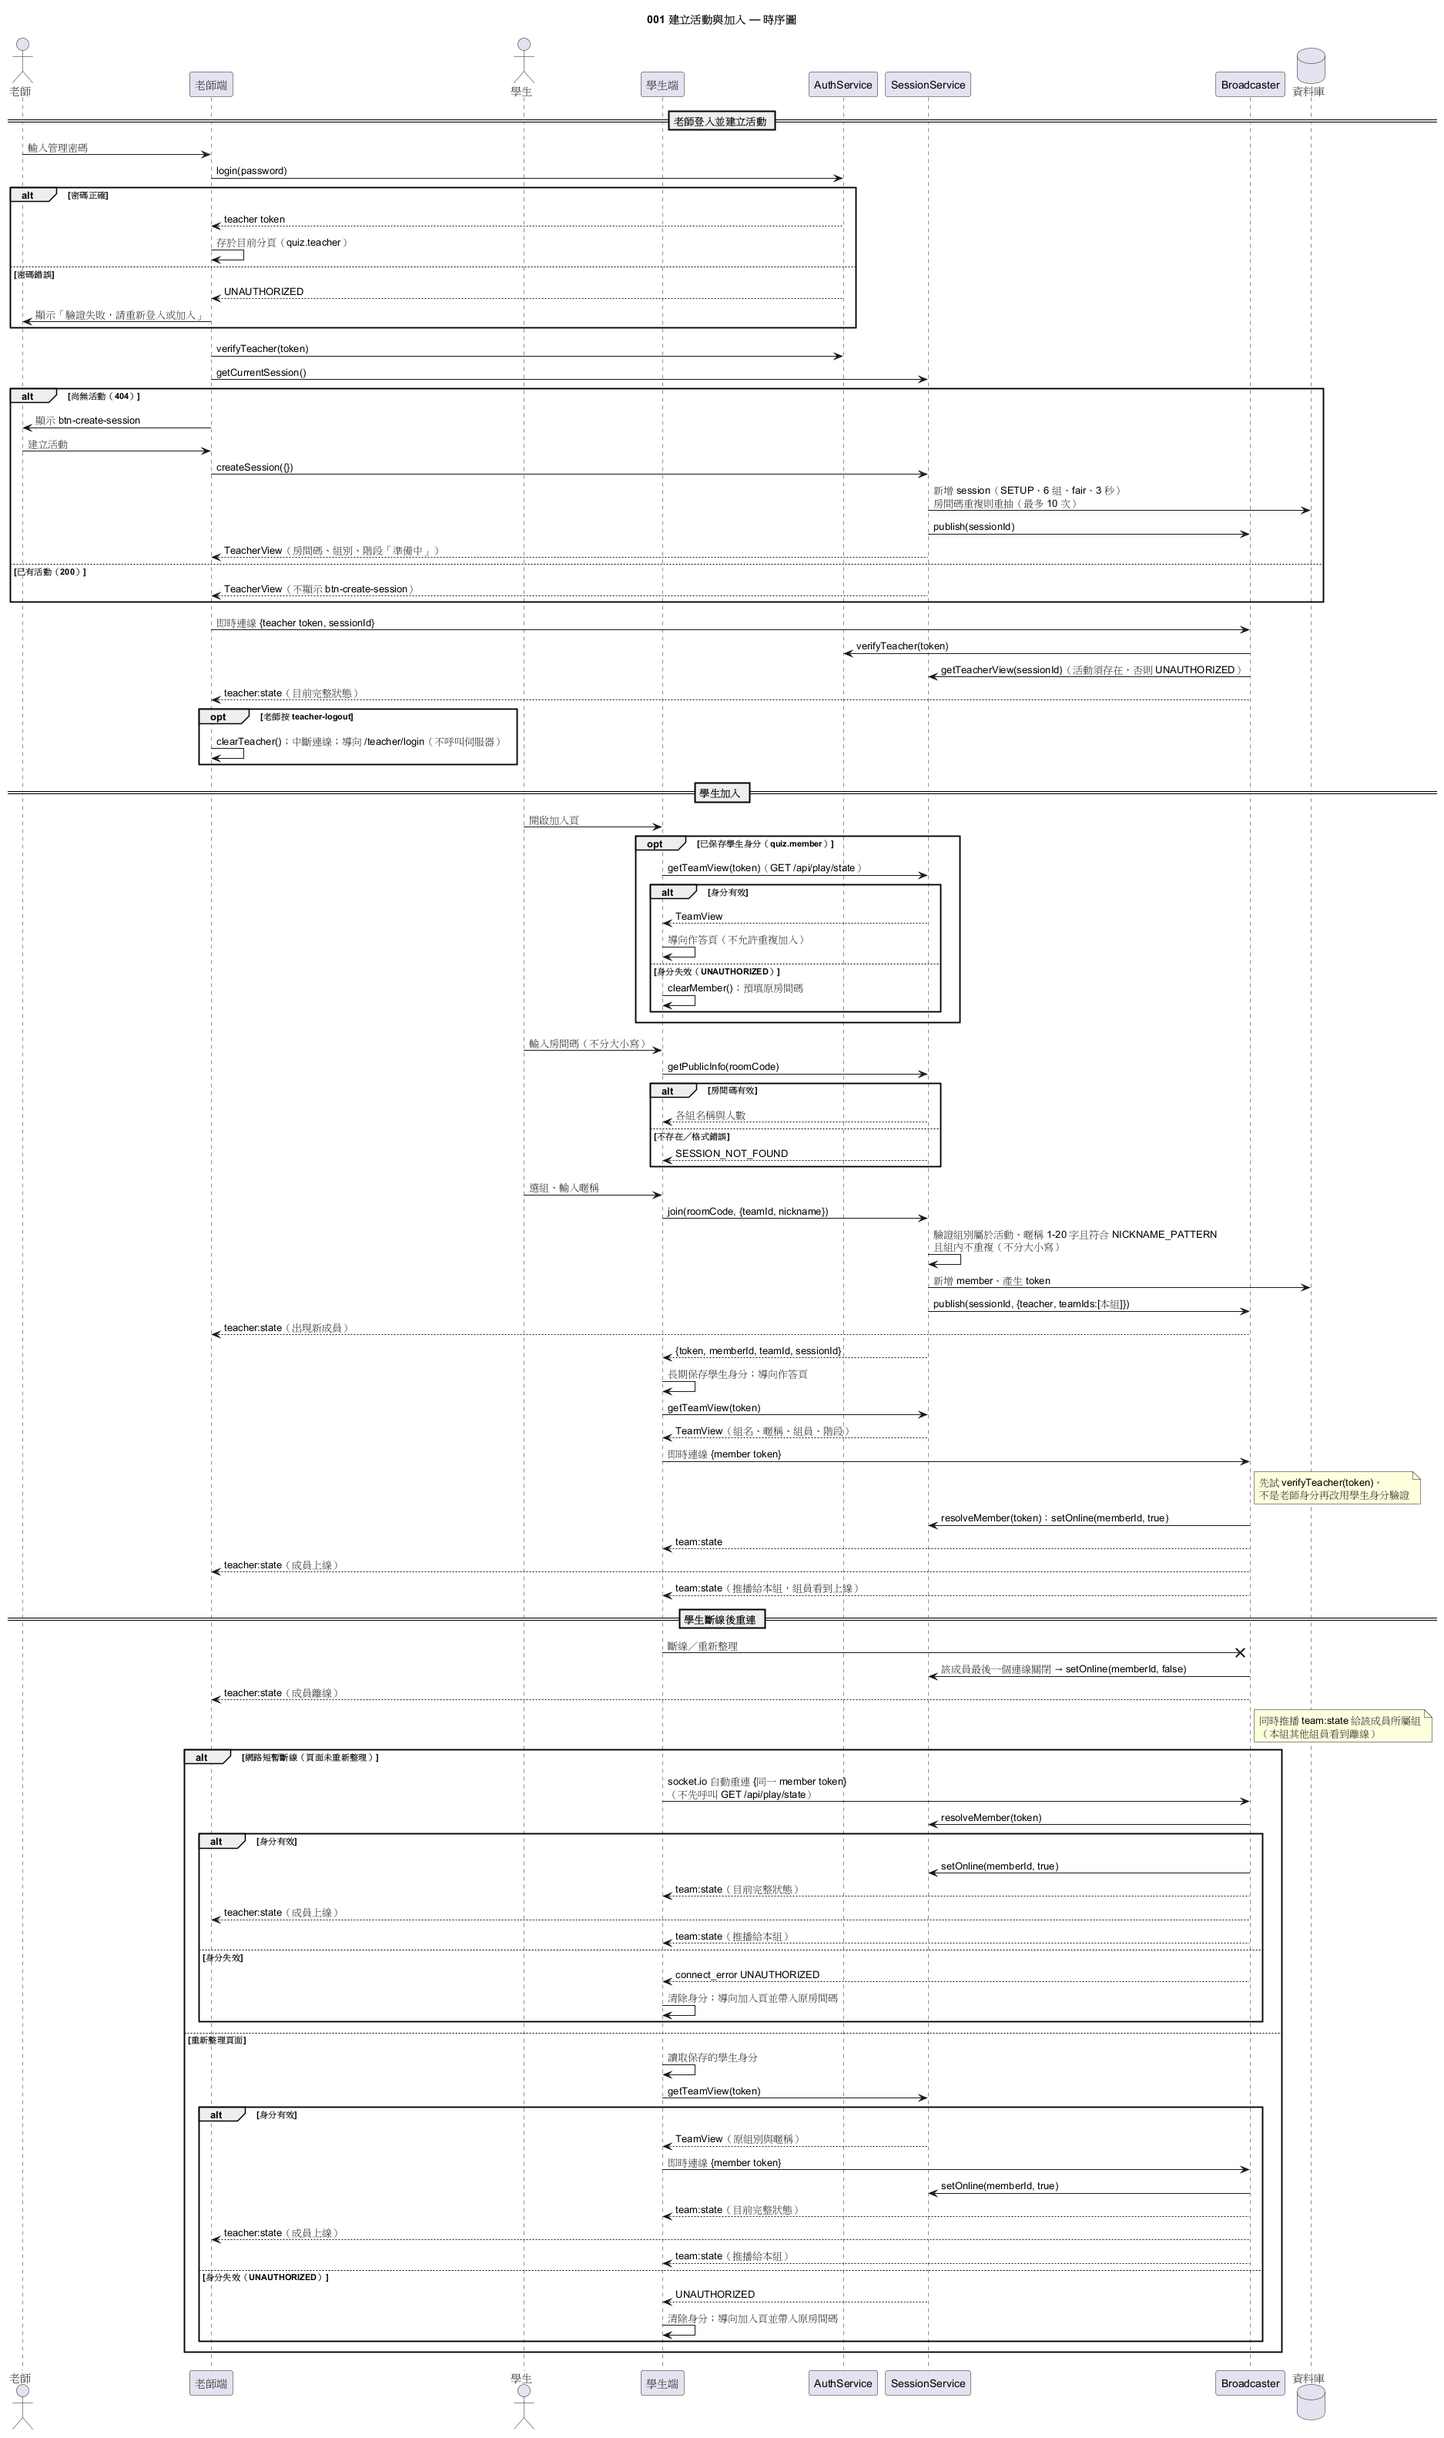
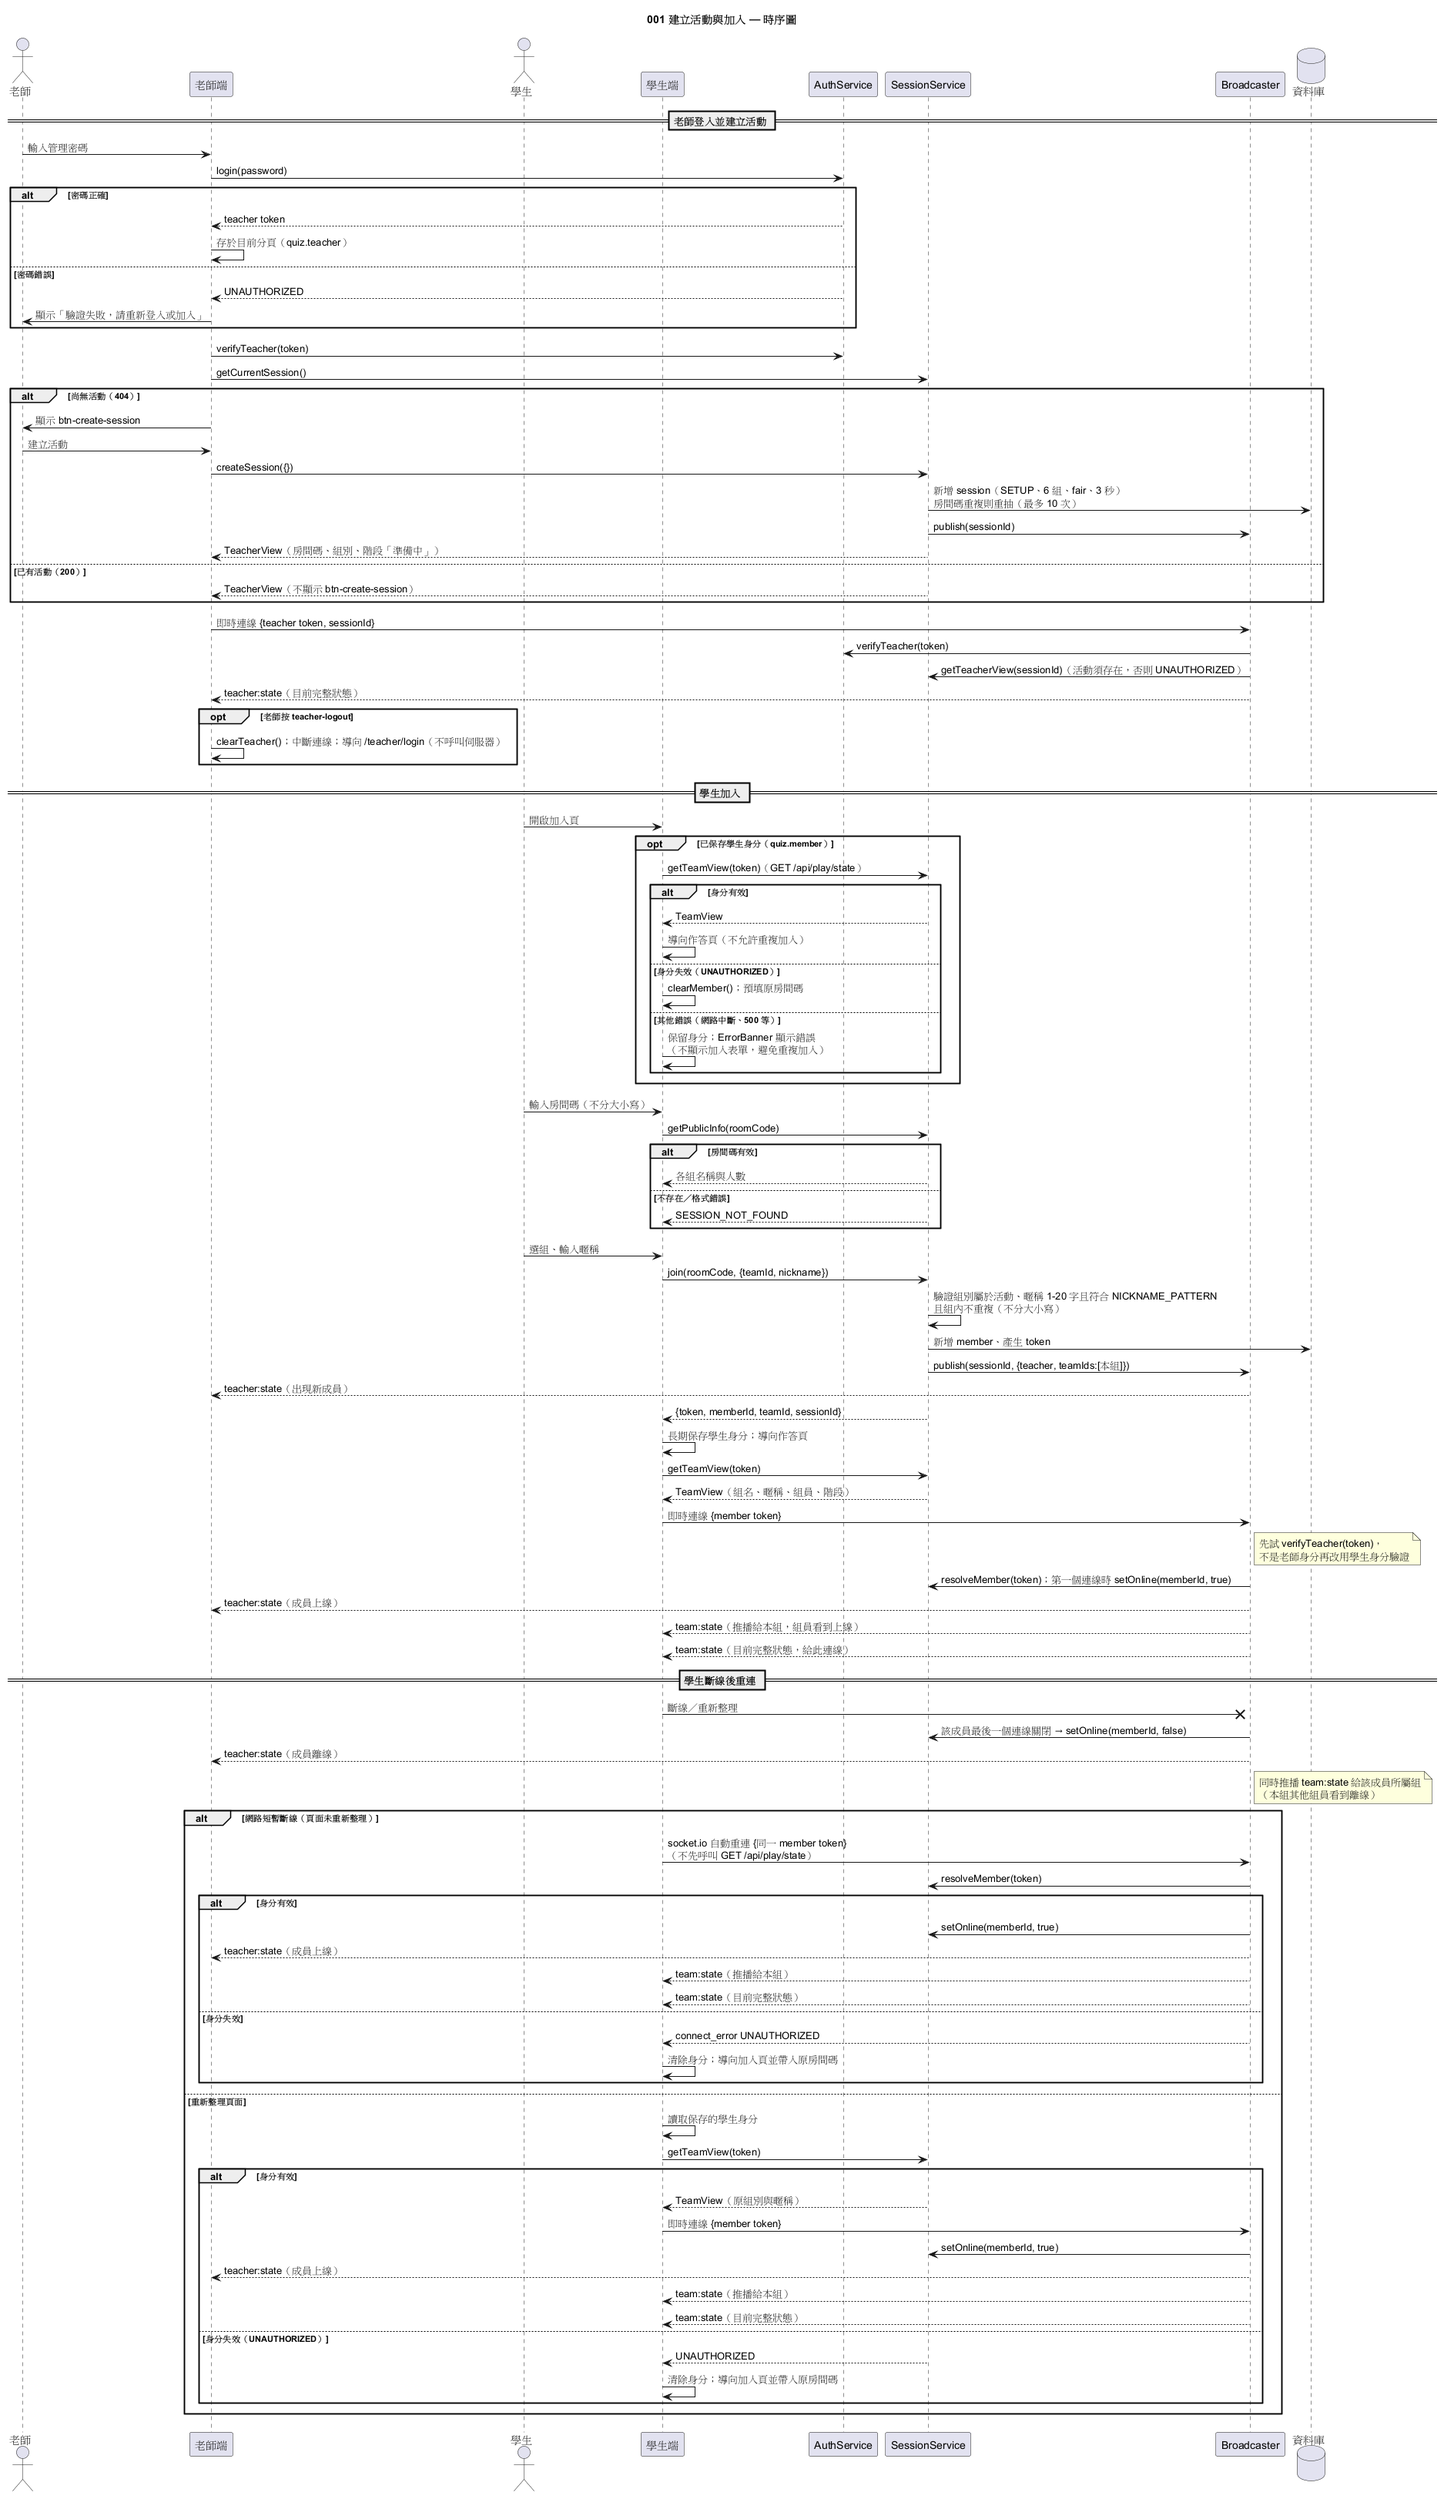
test(001): phase 4 QA - secrets check, README, build/start and manual acceptance (T087-T090, T093)

diff --git a/docs/manual-test.md b/docs/manual-test.md
@@ -43,3 +43,38 @@
 **整合測試與 TECH_SPEC §14.1 001 列核對**：IT-AUTH-01～03、IT-ONLINE-01 通過。§14.1 001 列的 UT-VAL、UT-ERR、UT-PHASE、UT-REPO-01、UT-REPO-07、UT-AUTH、UT-SVC-CREATE、UT-SVC-JOIN、UT-PROJ-10、UT-BC、UT-UI-STORE、UT-UI-MSG、UT-UI-PHASE、UT-UI-LOGIN、UT-UI-SET、UT-UI-JOIN、UT-UI-DASH-01～03、UT-UI-PLAY-01～02、IT-AUTH-01～03、IT-ONLINE-01、E2E-03、E2E-18 皆有對應測試且通過；`skip`／`todo`／`fixme` 數量為 0。
 
 備註：以 `--reporter=verbose` 連續執行全套 9 次，其中 1 次 UT-UI-DASH-02 失敗，其餘 8 次與該檔單獨執行 3 次皆通過，無法重現（見 `docs/test-report.md` Q-001）。
+
+### T089 手動驗收（2026-11-27，基準 commit `fd9f4bb`，Edge／Chrome）
+
+**啟動前檢查**：根目錄 `.env`（由 `.env.example` 複製、已設定 `TEACHER_PASSWORD`）；舊的 `data/` 經團隊同意刪除後，以 `npm run build && npm start` 啟動（`http://localhost:3000`）。
+
+| 檢查 | 結果 | 證據 |
+| --- | --- | --- |
+| 伺服器讀到根目錄 `.env`（不是 `server/.env`） | 通過 | `server/.env` 不存在、shell 環境無 `TEACHER_PASSWORD`；伺服器仍成功啟動（該變數必填），且以根目錄 `.env` 的密碼登入回 200 |
+| 資料庫建立在根目錄 `data/quiz.db` | 通過 | 啟動後出現 `data/quiz.db`（含 `-wal`、`-shm`）；`server/data/` 不存在 |
+
+**quickstart 5 個情境**（老師：Edge 一般視窗；學生 A：Edge InPrivate；學生 B：Chrome 無痕）
+
+| 情境 | 步驟與期望 | 結果 |
+| --- | --- | --- |
+| 1 登入並建立活動 | 錯誤密碼 →「驗證失敗，請重新登入或加入」；正確密碼 → 建立活動，房間碼 `6KXM2E`（6 碼、不含 I、O、0、1〔SC-006〕），第 1～6 組、準備中；重新整理仍在管理頁、房間碼相同、無建立按鈕；登出 → 登入頁，再開 `/teacher` 需重新登入 | 通過 |
+| 2 調整設定 | 組數 8 → 出現第 7、8 組；純速度 → 視窗秒數欄位消失；組數 25 → 無法儲存 | 通過 |
+| 3 學生加入 | 小寫房間碼 → 顯示各組與人數；第 1 組「小明」→ `/play` 顯示第 1 組／小明／準備中；「小明😀」→ 暱稱格式錯誤訊息；第 1 組再用「小明」→「這個暱稱在組內已被使用」；學生 B 以「Bob」加入第 5 組 | 通過 |
+| 4 重連與重複加入 | 重新整理 `/play` 回到第 1 組／小明、老師端人數不變〔FR-025、SC-002〕；開 `/join` 直接導回 `/play`；兩個 `/play` 分頁關一個仍上線、兩個都關才離線 | 通過 |
+| 5 減少組數被拒 | 第 5 組有成員時組數改 4 →「要移除的組別已有成員」，維持 8 組 | 通過 |
+
+**補充檢查**
+
+| 項目 | 結果 | 說明 |
+| --- | --- | --- |
+| (a) 1 秒內同步〔SC-001、SC-004〕 | 通過 | 碼錶計時：學生按加入 → 老師畫面出現成員 < 1 秒；老師儲存設定 → 學生畫面更新 < 1 秒（40 連線自動化量測屬 003 IT-PERF-01） |
+| (b) 重啟後身分失效與上線恢復〔FR-036、FR-031〕 | 通過 | 學生在線時停止伺服器，再以 `npm run dev -w server`（同一根目錄 `.env` 與 `data/quiz.db`）啟動：老師原分頁自動導回登入頁；伺服器就緒當下的 API 快照為 `第 1 組/小明=offline, 第 5 組/Bob=offline`（2026-11-27T15:30:11Z），10 秒後兩人皆 `online`（學生分頁自動重連）；老師重新登入看到 `6KXM2E` 與成員、小明上線；學生 A 舊 `/play` 分頁維持第 1 組／小明 |
+| (c) `/join?room=` 預填〔FR-027〕 | 通過 | 開啟 `room-code` 旁的加入網址 → `join-room` 已預填 |
+| (d) 新分頁需登入〔FR-002〕 | 通過 | 已登入時在新分頁以網址開啟 `/teacher` → 導向登入頁（未測「複製分頁」，見 spec Assumptions） |
+
+### T093 手動驗收（2026-11-27，基準 commit `fd9f4bb`）
+
+| 項目 | 步驟 | 結果 |
+| --- | --- | --- |
+| (a) 伺服器無法連線時不重複加入（驗證 T091）〔FR-027a、FR-039〕 | 正式建置由伺服器提供前端，停止伺服器後 `/join` 本身無法載入（Edge「無法連上這個網站」），無法走到 T091 的路徑；因此改用開發模式：`npm run dev -w server`（3000）與 `npm run dev -w client`（5173）分開執行。學生 A 在 `:5173/join` 以「阿華」加入第 2 組 → `/play`；只停止 server；新分頁開 `:5173/join` → 顯示「發生未預期錯誤，請重新整理」、沒有加入表單、`localStorage` 的 `quiz.member` 仍在；重新啟動 server 後重新整理 → 導向 `/play`，回到第 2 組／阿華 | 通過 |
+| (b) 設定超出範圍提示（驗證 T092）〔SC-003〕 | 管理頁組數改 21、視窗秒數改 0 → 皆顯示「輸入格式不正確」且無法儲存 | 通過 |

diff --git a/README.md b/README.md
@@ -4,6 +4,12 @@
 
 ## 功能清單
 
+- **老師登入／登出**：輸入管理密碼（`.env` 的 `TEACHER_PASSWORD`）進入管理頁；同一分頁重新整理維持登入，新開分頁需重新登入。按「登出」清除本分頁的老師身分並回到登入頁。
+- **建立活動**：產生 6 碼房間碼（大寫英文與數字，不含 I、O、0、1）；預設 6 組、判定模式「公平」、視窗 3 秒、階段「準備中」。管理頁顯示目前活動，已有活動時不再顯示建立入口。
+- **活動設定**：準備中或等待開始時可調整組數（2–20）、判定模式（公平／純速度）與視窗秒數（1–10，只在公平模式顯示）；要移除的組別已有成員時拒絕變更。
+- **學生加入**：以房間碼（不分大小寫，可由 `/join?room=<房間碼>` 連結預填）查詢各組與人數，選組並輸入暱稱（1–20 個中文字、英文字母或數字，同組不可重複）後進入作答頁，顯示組名、暱稱、本組組員與目前階段。
+- **即時名單**：老師即時看到每組成員、人數與上線狀態（至少一個分頁連線中即為上線）；學生只收到本組的成員資料。
+- **重連**：學生重新整理或斷線恢復後自動回到原組別與暱稱，不建立新成員；已加入者再開加入頁直接回到作答頁；身分失效時導回加入頁並帶入原房間碼。伺服器重新啟動後所有成員先顯示離線，重新連線後恢復上線。
 - **結果畫面（老師／學生）**：搶答結束後，老師看到結果表（每題得主組別、得主答案、各組順位，含被判錯、不含已撤回的送出）與各組分數（分數高到低，同分依組別順序）；沒有得主的題目顯示「無」。學生在結束後看到相同內容（含各組分數），結束前看不到。
 - **老師判錯與遞補**：搶答中或結束後，老師可對某題按「判錯」——原得主扣回 1 分，依既有順位由下一個有效送出遞補並得 1 分；可連續判錯，無人可遞補時提示「此題目前沒有得主」。被判錯的組不能重送該題，畫面顯示「老師判定此答案錯誤」。
 - **寫回 Google Sheets**：已結束時可把每題最終得主的答案寫回原 Guided Notes 的作答格（作答格有子題前綴如「（1）」時寫入「前綴＋答案」）。只改作答格的值，不改其他儲存格、格式與合併；寫入位置一律來自匯入時記錄的位置。完成後顯示「已寫回 N 格」。

diff --git a/docs/test-report.md b/docs/test-report.md
@@ -1,4 +1,4 @@
-# 測試報告 2026-11-27 2ef4027（+ 001 Phase 4 QA：T082–T086，未提交）
+# 測試報告 2026-11-27 fd9f4bb（+ 001 Phase 4 QA：T087–T090、T093，未提交）
 
 ## 摘要
 
@@ -6,7 +6,7 @@
 |---|---|---|---|---|
 | UT + IT（`npm test`） | 288 | 288 | 0 | 0 |
 | E2E（`npm run test:e2e`，001 範圍） | 2 | 2 | 0 | 0 |
-| MA | — | — | — | —（001 手動驗收屬 T089、T093，尚未執行） |
+| MA（001 手動驗收 T089、T093） | 13 | 13 | 0 | 0 |
 
 ## 覆蓋率
 
@@ -38,6 +38,12 @@
 - 採用的假設：不視為產品缺陷；`client/test/` 不在本次任務可修改範圍，未修改。
 - 影響的測試：UT-UI-DASH-02
 
-## 驗收結論：不通過（001 範圍內僅剩未執行項目）
+## 001 Phase 4 補充（T087–T090、T093）
 
-未滿足的 §8.1 條件：5（§8.2 手動驗收未執行）；1、3（002～004 的 E2E 尚未實作）。001 範圍內的自動化項目全部通過。
+- T087 機密與資訊隔離：通過。`git ls-files` 不含 `.env`、`secrets/`、`data/`；E2E 密碼改為只定義在 `e2e/playwright.config.ts` 的 webServer env（`identity.spec.ts` 改由 config 讀取）；IT-ONLINE-01 斷言學生 `team:state` 不含他組成員。
+- T090：`npm test`（288）、`npm run lint`、`npm run test:e2e`（E2E-03、E2E-18）全部通過；`diagrams/001-sequence.puml` 補 T091 分支並修正連線推播順序（程式碼不變）。
+- T089、T093：手動驗收全部通過，明細見 `docs/manual-test.md` 001 段落。T093(a) 因正式建置由伺服器提供前端，改以開發模式（server、client 分開執行）驗證。
+
+## 驗收結論：不通過（001 範圍內全部通過）
+
+未滿足的 §8.1 條件：1、3（002～004 的 E2E 尚未實作）；5（§8.2 中 002～004 的 MA 項目）。001 範圍內的自動化與手動驗收項目全部通過；README 的 T088 執行說明部分待補。
